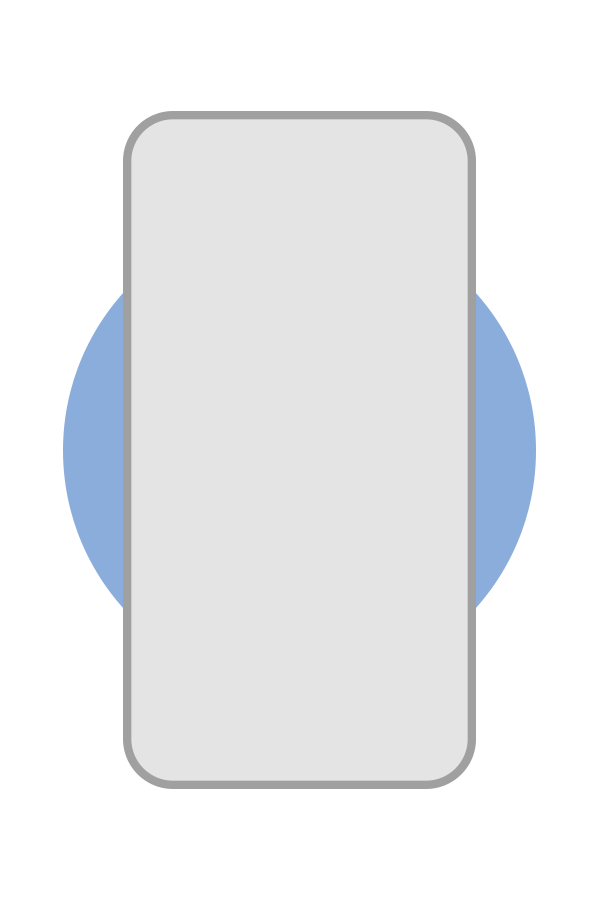
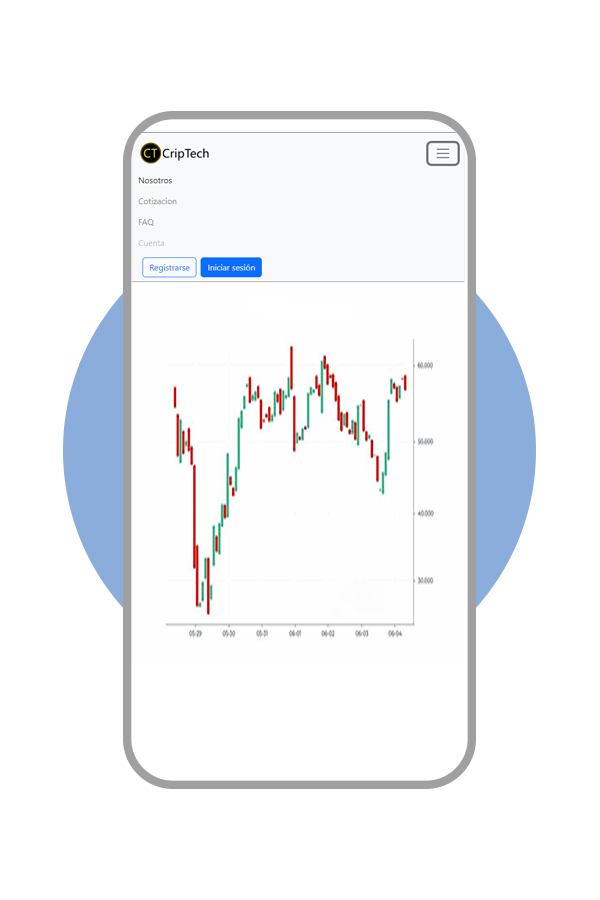
se agrega contenido en index.html y se agrega su style correspondiente

diff --git a/frontend/index.html b/frontend/index.html
@@ -7,6 +7,7 @@
     <!-- CSS only -->
     <link href="https://cdn.jsdelivr.net/npm/bootstrap@5.2.2/dist/css/bootstrap.min.css" rel="stylesheet" integrity="sha384-Zenh87qX5JnK2Jl0vWa8Ck2rdkQ2Bzep5IDxbcnCeuOxjzrPF/et3URy9Bv1WTRi" crossorigin="anonymous">
     <link rel="stylesheet" href="css/style.css">
+    <link rel="stylesheet" href="css/style_index.css">
     <!-- JavaScript Bundle with Popper -->
     <script src="https://cdn.jsdelivr.net/npm/bootstrap@5.2.2/dist/js/bootstrap.bundle.min.js" integrity="sha384-OERcA2EqjJCMA+/3y+gxIOqMEjwtxJY7qPCqsdltbNJuaOe923+mo//f6V8Qbsw3" crossorigin="anonymous"></script>
     <title>Criptech</title>
@@ -54,19 +55,21 @@
     </header>
 
     <main>
-        <!-- <div class="sobre-nosotros">
+        <div class="sobre-nosotros">
             <div class="sobre-nosotros__izquierda">
-                <h1 class="sobre-nosotros__titulo">Lorem ipsum dolor sit amet consectetur adipisicing elit.</h1>
-                <p class="sobre-nosotros__descripcion">Lorem ipsum dolor, sit amet consectetur adipisicing elit. Nulla, assumenda. Veniam necessitatibus laboriosam soluta quibusdam dolores velit corrupti architecto tempore alias eum esse cumque consectetur sunt exercitationem, illum error non!</p>
-                <div class="sobre_nosotros__form">
-                    <input type="text" name="" id="">
-                    <button>empezar</button>
+                <h1 class="sobre-nosotros__titulo display-3">Empieza a crear tu cartera de criptomonedas</h1>
+                <p class="sobre-nosotros__descripcion my-5">Criptech es el lugar más sencillo y seguro para comprar y vender criptomonedas.
+                    ¡Registrate y comienza a operar hoy mismo!
+                    </p>
+                <div class="">
+                    <input class="sobre-nosotros__input" type="email" name="" id="" placeholder="email@email.com">
+                    <button class="btn btn-outline-primary">empezar</button>
                 </div>
             </div>
             <div class="sobre-nosotros__derecha">
                 <img src="/img/img_telefono.png" alt="">
             </div>
-        </div> -->
+        </div>
     </main>
 
 </body>

diff --git a/frontend/cotizacion.html b/frontend/cotizacion.html
@@ -31,7 +31,7 @@
                         <a class="nav-link" href="cotizacion.html">Cotizacion</a>
                     </li>
                     <li class="nav-item">
-                        <a class="nav-link" href="cotizacion.html">FAQ</a>
+                        <a class="nav-link" href="faq.html">FAQ</a>
                     </li>
                     <li class="nav-item">
                         <a class="nav-link disabled" href="#" tabindex="-1" aria-disabled="true">Cuenta</a>

diff --git a/frontend/css/style_index.css b/frontend/css/style_index.css
@@ -1,0 +1,19 @@
+.sobre-nosotros{
+    display: flex;
+}
+.sobre-nosotros__izquierda{
+    width: 50vw;
+    margin: 10rem 5rem;
+}
+
+.sobre-nosotros__derecha{
+    width: 50vw;
+    margin: 0 5rem;
+}
+
+.sobre-nosotros__input{
+    padding: .25rem;
+    outline: none;
+    border: 1px solid #848484;
+    border-radius: 4px;
+}
